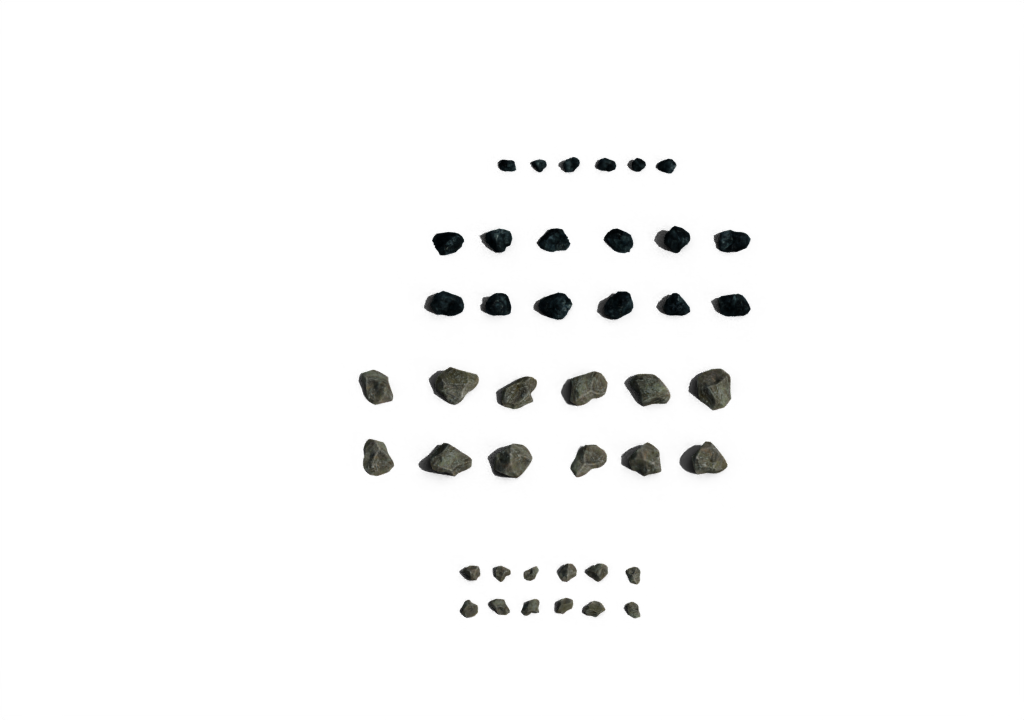
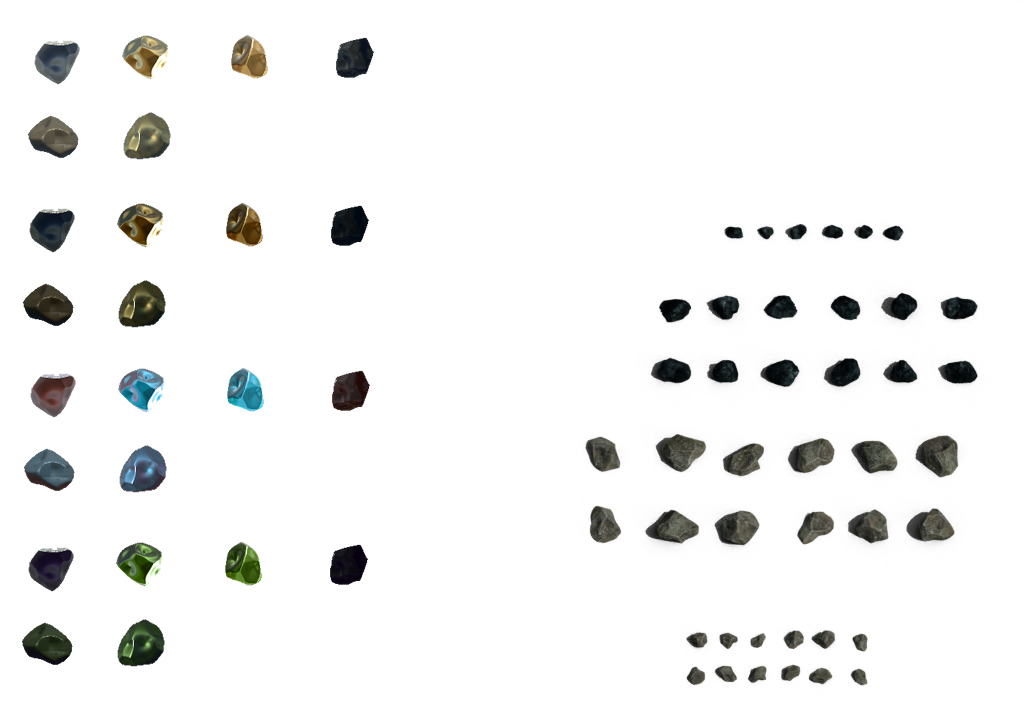
Buildings rendered in the grid and items

diff --git a/src/game.c b/src/game.c
@@ -9,11 +9,13 @@ static ColorPalette ui_palette;
 #include "ui/ho_slider.c"
 
 static Game game;
+static bool ui_hovered_or_active;
+static Vector2 camera_position;
 
 void game_init()
 {
     game.camera.zoom = 0.5f;
-    game.camera.target = (Vector2){360.0f, 360.0f};
+    game.camera.target = (Vector2){-360.0f, -360.0f};
 
     ui_palette = palette_mountain_ridge;
 
@@ -23,21 +25,48 @@ void game_init()
 void game_update()
 {
     // Camera panning control
-    if (IsMouseButtonDown(MOUSE_BUTTON_LEFT))
+    if (IsMouseButtonDown(MOUSE_BUTTON_LEFT) && !ui_hovered_or_active)
     {
         Vector2 delta = GetMouseDelta();
         delta = Vector2Scale(delta, -1.0f / game.camera.zoom);
-        game.camera.target = Vector2Add(game.camera.target, delta);
+        camera_position = Vector2Add(delta, camera_position);
     }
 
     // Zoom control
     float wheel = GetMouseWheelMove();
     if(wheel > 0 && game.camera.zoom < 2.0f)      game.camera.zoom *= 2.0f;
     else if(wheel < 0 && game.camera.zoom >= 0.5f) game.camera.zoom /= 2.0f;
+
+    // Recenter camera
+    Vector2 center = {
+        -GetScreenWidth() / 2.0f,
+        -GetScreenHeight() / 2.0f
+    };
+    center = Vector2Scale(center, 1.0f / game.camera.zoom);
+    game.camera.target = Vector2Add(center, camera_position);
+    game.camera.target.x = (float)round(game.camera.target.x);
+    game.camera.target.y = (float)round(game.camera.target.y);
+}
+
+void debug_slider(int id, float* value, float min, float max)
+{
+    if(id < 0 || id > 256) return;
+
+    static bool debug_sliders[256];
+    HoUiInteraction interaction = ho_slider_circle((Vector2){10.0f, 10.0f + id * 50.0f}, debug_sliders[id], (Vector2){180, 2}, value, min, max);
+    if(interaction & HOUI_INTERACT_CLICKED)
+        debug_sliders[id] = true;
+    if(interaction & HOUI_INTERACT_RELEASED)
+        debug_sliders[id] = false;
+    *value = roundf(*value);
+    DrawText(TextFormat("%.2f", *value), 195, id * 50, 20, WHITE);
+
+    ui_hovered_or_active = (interaction & HOUI_INTERACT_HOVERED) != 0 || debug_sliders[id];
 }
 
 void render_ui()
 {
+    DrawRectangle(360, 360, 200, 200, BROWN);
     // Button
     if(ho_button((Vector2){360.0f,360.0f}, (Vector2){100, 40}, GetFontDefault(), "Button") & HOUI_INTERACT_CLICKED)
     {
@@ -50,11 +79,82 @@ void render_ui()
     // Slider
     static bool slider_active = false;
     static float value = 0.0f;
-    HoUiInteraction interaction = ho_slider_circle((Vector2){360.0f,360.0f + 2*50.0f}, slider_active, (Vector2){100, 2}, &value, 0, 100.0f);
+    HoUiInteraction interaction = ho_slider_circle((Vector2){360.0f,360.0f + 2*50.0f}, slider_active, (Vector2){200, 2}, &value, 0, 100.0f);
     if(interaction & HOUI_INTERACT_CLICKED)
         slider_active = true;
     if(interaction & HOUI_INTERACT_RELEASED)
         slider_active = false;
+
+    ui_hovered_or_active = (interaction & HOUI_INTERACT_HOVERED) != 0 || slider_active;
+}
+
+Vector2 iso_pos(Vector2 ortho)
+{
+    return (Vector2){(ortho.x + ortho.y), (ortho.x - ortho.y)};
+}
+
+void render_map()
+{
+    #define GRID_SIZE 180
+    #if 1
+    SetRandomSeed(456);
+    int j = 0;
+    for(int y = 8; y > -8; --y)
+    {
+        for(int x = -8; x < 8; ++x)
+        {
+            Vector2 position = (Vector2){x * GRID_SIZE, y * GRID_SIZE};
+            position = iso_pos(position);
+            int random_building = GetRandomValue(0, pole_sprite.rect_count - 1);
+            int random_pole = GetRandomValue(0, pole_sprite.rect_count - 1);
+
+            //if(GetRandomValue(0, 100) < 20)
+            {
+                render_sprite_static_atlas_offset(&buildings_shadow.atlas, building_recs[random_building], building_offsets[random_building], position, 0, WHITE);
+                render_sprite_static_atlas_offset(&buildings_albedo.atlas, building_recs[random_building], building_offsets[random_building], position, 0, WHITE);
+
+                Vector2 pole_position = Vector2Add(position, (Vector2){30, 50});
+                render_sprite_static_atlas_offset(&pole_sprite.atlas, pole_sprite.recs[random_pole], pole_offsets[random_pole], pole_position, 0, WHITE);
+            }
+            
+            ///DrawRectangleV(position, (Vector2){200, 200}, RED);
+            //DrawRectanglePro((Rectangle){position.x - 200, position.y - 200, 50, 1000}, (Vector2){0}, 45, BLACK);
+        }
+    }
+    #endif
+}
+
+void
+render_items()
+{
+    // Render special items
+    Vector2 position = (Vector2){0, 100};
+    for(int i = 0; i < ARRAY_LENGTH(merged_icons_recs); ++i)
+    {
+        // Change scale if needed
+        items_sprite.atlas.scale = (Vector2){0.5f, 0.5f};
+
+        // Render atlas, each item is on merged_icons_recs array of rectangles
+        render_sprite_static_atlas_immediate(&items_sprite.atlas, merged_icons_recs[i], position, 0, WHITE);
+
+        // Advance by the size of the item
+        position.x += merged_icons_recs[i].width * items_sprite.atlas.scale.x;
+    }
+
+    position.x = 0;
+    position.y = 160;
+    // Render basic rocks
+    for(int i = 0; i < ARRAY_LENGTH(rock_icons_recs); ++i)
+    {
+        // Change scale if needed
+        items_sprite.atlas.scale = (Vector2){0.5f, 0.5f};
+
+        // Render atlas, each item is on merged_icons_recs array of rectangles
+        render_sprite_static_atlas_immediate(&items_sprite.atlas, rock_icons_recs[i], position, 0, WHITE);
+
+        // Advance by the size of the item
+        position.x += rock_icons_recs[i].width * items_sprite.atlas.scale.x;
+    }
 }
 
 void game_render()
@@ -67,27 +167,20 @@ void game_render()
     
         render_queue_flush();
 
-        //render_sprite_static_atlas(&grass.atlas, grass_recs[0], (Vector2){80, 210}, 0, WHITE);
-
-        for(int j = 0; j < 5; ++j)
-        {
-            for(int i = 0; i < 6; ++i)
-            {
-                render_sprite_static_atlas(&buildings_shadow.atlas, building_recs[i], (Vector2){720 - i * 120 + j * 200, 0 + i * 110 + j * 200}, 0, WHITE);
-                render_sprite_static_atlas(&buildings_albedo.atlas, building_recs[i], (Vector2){720 - i * 120 + j * 200, 0 + i * 110 + j * 200}, 0, WHITE);
-            }
-        }
-
-        render_sprite_static_atlas(&pole_sprite.atlas, pole_sprite.recs[0], (Vector2){20, 90}, 0, WHITE);
-
-        render_sprite_animated(&character[0].shadow, (Vector2){100, 200}, 0, game.tick % sprite_frame_count(&character[0].shadow), WHITE);
-        render_sprite_animated(&character[0].albedo, (Vector2){100, 200}, 1, game.tick % sprite_frame_count(&character[0].albedo), WHITE);
-
-        //DrawCircle(360, 360, 3.0f, RED);
+        //render_map();
 
         EndMode2D();
 
-        render_ui();
+        render_items();
+
+        static int xx = 0;
+        if(IsKeyPressed('X'))
+        {
+            xx = (xx + 1) % ARRAY_LENGTH(building_offsets);
+        }
+        DrawText(TextFormat("%d", xx), 0, GetScreenHeight() - 40.0f, 20, WHITE);
+        debug_slider(0, &building_offsets[xx].x, -200.0f, 200.0f);
+        debug_slider(1, &building_offsets[xx].y, -200.0f, 200.0f);
     }
 
     EndDrawing();

diff --git a/src/renderer/data.h b/src/renderer/data.h
@@ -30,6 +30,14 @@ static Rectangle building_recs[6] = {
   {803.000000 / 2.0f, 1284.000000 / 2.0f, 652.000000 / 2.0f, 713.000000 / 2.0f},
   {34.000000 / 2.0f, 1299.000000 / 2.0f, 742.000000 / 2.0f, 713.000000 / 2.0f},
 };
+static Vector2 building_offsets[6] = {
+  {-18, 16},
+  {-23, 34},
+  {-22, 34},
+  {-18, 24},
+  {-28, 42},
+  {-23, 33},
+};
 static AssetAtlas buildings_albedo = { {"res/building/BuildingsIso1024x1024_Albedo.png", false, {0}, {0}, {1.0f, 1.0f}, 1.0f, 1, {0}}, sizeof(building_recs) / sizeof(*building_recs), building_recs};
 static AssetAtlas buildings_shadow = { {"res/building/BuildingsIso1024x1024_Shadow.png", false, {0}, {0}, {1.0f, 1.0f}, 0.7f, 1, {0}}, sizeof(building_recs) / sizeof(*building_recs), building_recs};
 
@@ -41,8 +49,56 @@ static Rectangle pole_recs[6] = {
   {30.000000, 413.000000, 180.000000, 180.000000},
   {271.000000, 413.000000, 180.000000, 180.000000},
 };
+static Vector2 pole_offsets[6] = {
+  {0, 0},
+  {0, 0},
+  {0, 0},
+  {0, 0},
+  {0, 0},
+  {0, 0},
+};
 static AssetAtlas pole_sprite = { {"res/building/PoleIso1.png", false, {0}, {0}, {1.0f, 1.0f}, 1.0f, 1, {0}}, sizeof(pole_recs) / sizeof(*pole_recs), pole_recs};
 
+Rectangle merged_icons_recs[24] = {
+  {26.000000, 29.000000, 64.000000, 64.000000},
+  {22.000000, 105.000000, 64.000000, 64.000000},
+  {22.000000, 200.000000, 64.000000, 64.000000},
+  {17.000000, 271.000000, 64.000000, 64.000000},
+  {17.000000, 363.000000, 64.000000, 64.000000},
+  {17.000000, 437.000000, 64.000000, 64.000000},
+  {17.000000, 536.000000, 64.000000, 64.000000},
+  {17.000000, 611.000000, 64.000000, 64.000000},
+  {108.000000, 611.000000, 64.000000, 64.000000},
+  {108.000000, 532.000000, 64.000000, 64.000000},
+  {108.000000, 437.000000, 64.000000, 64.000000},
+  {108.000000, 358.000000, 64.000000, 64.000000},
+  {108.000000, 272.000000, 64.000000, 64.000000},
+  {108.000000, 193.000000, 64.000000, 64.000000},
+  {114.000000, 104.000000, 64.000000, 64.000000},
+  {114.000000, 27.000000, 64.000000, 64.000000},
+  {216.000000, 27.000000, 64.000000, 64.000000},
+  {211.000000, 191.000000, 64.000000, 64.000000},
+  {211.000000, 359.000000, 64.000000, 64.000000},
+  {211.000000, 531.000000, 64.000000, 64.000000},
+  {316.000000, 531.000000, 64.000000, 64.000000},
+  {316.000000, 359.000000, 64.000000, 64.000000},
+  {316.000000, 195.000000, 64.000000, 64.000000},
+  {321.000000, 25.000000, 64.000000, 64.000000},
+};
+
+Rectangle rock_icons_recs[9] = {
+  {651.000000, 284.000000, 48.000000, 48.000000},
+  {701.000000, 284.000000, 48.000000, 48.000000},
+  {758.000000, 284.000000, 48.000000, 48.000000},
+  {821.000000, 284.000000, 48.000000, 48.000000},
+  {935.000000, 284.000000, 48.000000, 48.000000},
+  {579.000000, 429.000000, 48.000000, 48.000000},
+  {581.000000, 501.000000, 48.000000, 48.000000},
+  {791.000000, 503.000000, 48.000000, 48.000000},
+  {845.000000, 503.000000, 48.000000, 48.000000},
+};
+
+static AssetAtlas items_sprite = { {"res/rocks/rocks1.png", false, {0}, {0}, {1.0f, 1.0f}, 1.0f, 1, {0}}, sizeof(merged_icons_recs) / sizeof(*merged_icons_recs), merged_icons_recs};
 
 /*
   const char* path;

diff --git a/src/renderer/renderer.c b/src/renderer/renderer.c
@@ -6,7 +6,7 @@
 static RenderCommand render_queue[RENDER_QUEUE_SIZE];
 static int32_t queue_index;
 
-#define DEBUG_DRAW_SPRITE_BOX 1
+#define DEBUG_DRAW_SPRITE_BOX 0
 
 void render_queue_flush();
 
@@ -40,6 +40,29 @@ void render_sprite_static_atlas(SpriteStaticAtlas* atlas, Rectangle src, Vector2
         .sprite.type = SPRITE_TYPE_STATIC_ATLAS,
         .sprite.static_atlas.src_rec = src,
         .original_index = queue_index,
+        .offset = {0},
+    };
+    render_queue[queue_index].sprite.static_atlas = *atlas;
+    render_queue[queue_index].sprite.static_atlas.src_rec = src;
+    queue_index++;
+
+    if (queue_index >= ARRAY_LENGTH(render_queue))
+    {
+        assert(false && "Too many render commands");
+        render_queue_flush();
+    }
+}
+
+void render_sprite_static_atlas_offset(SpriteStaticAtlas* atlas, Rectangle src, Vector2 offset, Vector2 position, int32_t layer, Color tint)
+{
+    render_queue[queue_index] = (RenderCommand){
+        .position = position,
+        .layer = layer,
+        .tint = tint,
+        .sprite.type = SPRITE_TYPE_STATIC_ATLAS,
+        .sprite.static_atlas.src_rec = src,
+        .original_index = queue_index,
+        .offset = offset
     };
     render_queue[queue_index].sprite.static_atlas = *atlas;
     render_queue[queue_index].sprite.static_atlas.src_rec = src;
@@ -59,7 +82,7 @@ do_render_sprite_static_atlas(RenderCommand* q)
 
     Vector2 scale = q->sprite.static_atlas.scale;
 
-    Vector2 origin = q->sprite.static_atlas.origin;
+    Vector2 origin = Vector2Add(q->sprite.static_atlas.origin, q->offset);
     Vector2 new_origin = Vector2Add(origin, (Vector2) { (src.width * scale.x) / 2.0f, (src.height * scale.y) / 2.0f });
     Vector2 draw_position = Vector2Subtract(q->position, new_origin);
 
@@ -69,8 +92,26 @@ do_render_sprite_static_atlas(RenderCommand* q)
     DrawTexturePro(q->sprite.static_atlas.texture, src, dst_rect, origin, 0, tint);
 
 #if DEBUG_DRAW_SPRITE_BOX
-	DrawRectangleLinesEx(dst_rect, 2, RED);
+	DrawRectangleLines(q->position.x - dst_rect.width / 2.0f, q->position.y - dst_rect.height / 2.0f, dst_rect.width, dst_rect.height, RED);
+    DrawCircle(q->position.x, q->position.y, 3.0f, GOLD);
 #endif
+}
+
+void render_sprite_static_atlas_immediate(SpriteStaticAtlas* atlas, Rectangle src, Vector2 position, int32_t layer, Color tint)
+{
+    RenderCommand command = (RenderCommand){
+        .position = position,
+        .layer = layer,
+        .tint = tint,
+        .sprite.type = SPRITE_TYPE_STATIC_ATLAS,
+        .sprite.static_atlas.src_rec = src,
+        .original_index = queue_index,
+        .offset = {0},
+    };
+    command.sprite.static_atlas = *atlas;
+    command.sprite.static_atlas.src_rec = src;
+
+    do_render_sprite_static_atlas(&command);
 }
 
 static void

diff --git a/src/renderer/renderer.h b/src/renderer/renderer.h
@@ -65,6 +65,7 @@ typedef struct {
 typedef struct {
     Sprite   sprite;
     Vector2  position;
+    Vector2  offset;
     Color    tint;
     int32_t  layer;
     int32_t  original_index;
@@ -73,5 +74,7 @@ typedef struct {
 void render_queue_flush();
 void render_sprite_animated(SpriteAnimated* sprite, Vector2 position, int32_t layer, uint32_t frame_index, Color tint);
 void render_sprite_static_atlas(SpriteStaticAtlas* atlas, Rectangle src, Vector2 position, int32_t layer, Color tint);
+void render_sprite_static_atlas_immediate(SpriteStaticAtlas* atlas, Rectangle src, Vector2 position, int32_t layer, Color tint);
+void render_sprite_static_atlas_offset(SpriteStaticAtlas* atlas, Rectangle src, Vector2 offset, Vector2 position, int32_t layer, Color tint);
 
 int sprite_frame_count(SpriteAnimated* sprite);

diff --git a/src/renderer/assets.h b/src/renderer/assets.h
@@ -20,6 +20,7 @@ static AssetAtlas* assets[] = {
     &buildings_albedo,
     &buildings_shadow,
     &pole_sprite,
+    &items_sprite,
 };
 
 static void load_assets()

diff --git a/src/ui/ho_slider.c b/src/ui/ho_slider.c
@@ -26,6 +26,7 @@ ho_slider_circle(Vector2 position, bool active, Vector2 size, float* value, floa
             active = true;
             result |= HOUI_INTERACT_CLICKED;
         }
+        result |= HOUI_INTERACT_HOVERED;
     }
 
     if(IsMouseButtonReleased(MOUSE_BUTTON_LEFT))